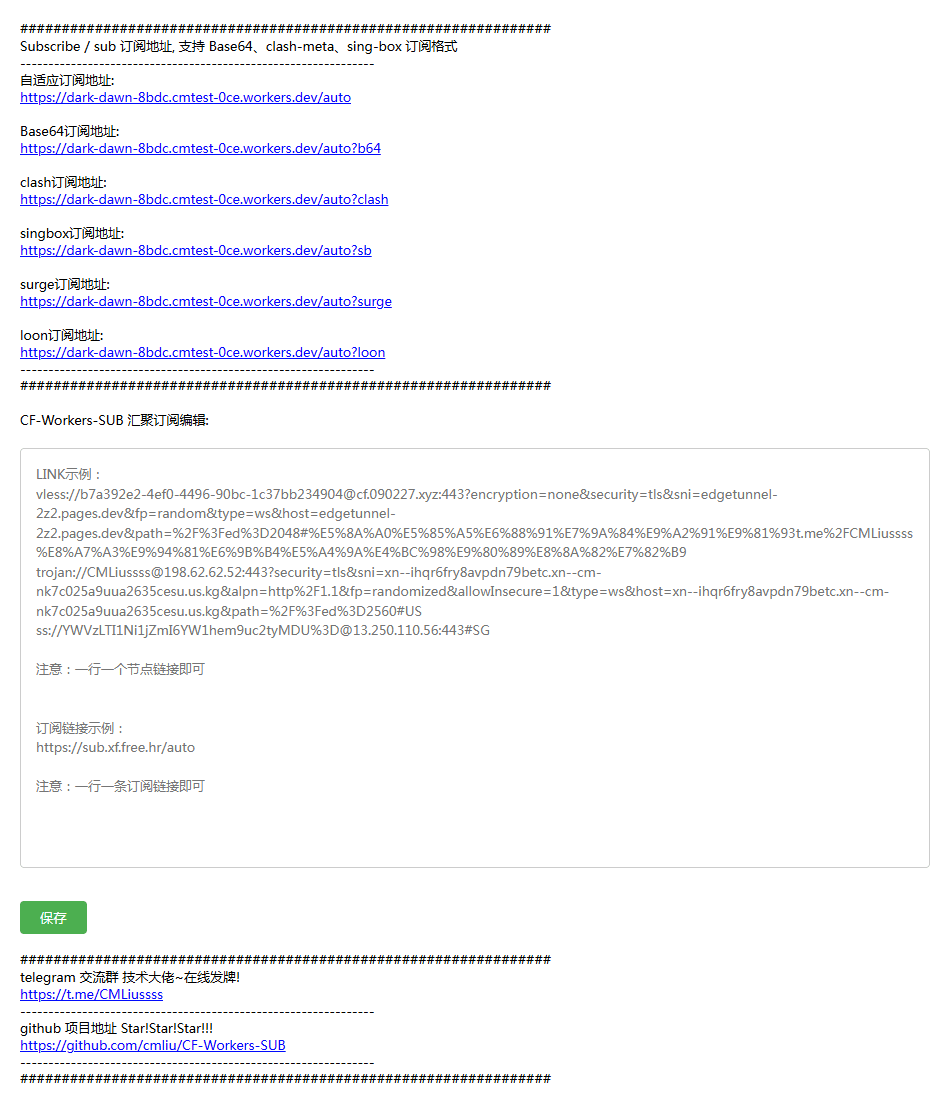
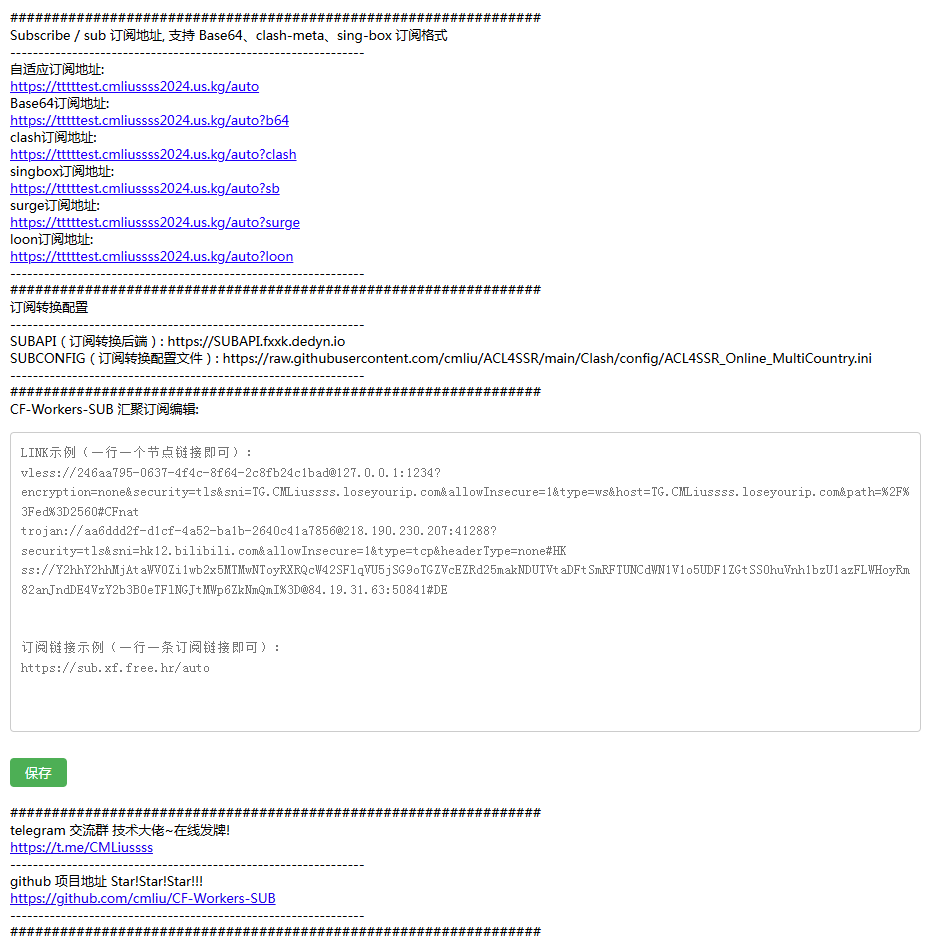
优化UI，展示更多信息

diff --git a/_worker.js b/_worker.js
@@ -17,8 +17,8 @@ https://raw.githubusercontent.com/mfuu/v2ray/master/v2ray
 `
 
 let urls = [];
-let subconverter = "SUBAPI.fxxk.dedyn.io"; //在线订阅转换后端，目前使用CM的订阅转换功能。支持自建psub 可自行搭建https://github.com/bulianglin/psub
-let subconfig = "https://raw.githubusercontent.com/cmliu/ACL4SSR/main/Clash/config/ACL4SSR_Online_MultiCountry.ini"; //订阅配置文件
+let subConverter = "SUBAPI.fxxk.dedyn.io"; //在线订阅转换后端，目前使用CM的订阅转换功能。支持自建psub 可自行搭建https://github.com/bulianglin/psub
+let subConfig = "https://raw.githubusercontent.com/cmliu/ACL4SSR/main/Clash/config/ACL4SSR_Online_MultiCountry.ini"; //订阅配置文件
 let subProtocol = 'https';
 
 export default {
@@ -31,14 +31,14 @@ export default {
 		BotToken = env.TGTOKEN || BotToken;
 		ChatID = env.TGID || ChatID; 
 		TG = env.TG || TG; 
-		subconverter = env.SUBAPI || subconverter;
-		if( subconverter.includes("http://") ){
-			subconverter = subconverter.split("//")[1];
+		subConverter = env.SUBAPI || subConverter;
+		if( subConverter.includes("http://") ){
+			subConverter = subConverter.split("//")[1];
 			subProtocol = 'http';
 		} else {
-			subconverter = subconverter.split("//")[1] || subconverter;
+			subConverter = subConverter.split("//")[1] || subConverter;
 		}
-		subconfig = env.SUBCONFIG || subconfig;
+		subConfig = env.SUBCONFIG || subConfig;
 		FileName = env.SUBNAME || FileName;
 
 		const currentDate = new Date();
@@ -104,7 +104,7 @@ export default {
 				订阅格式 = 'loon';
 			}
 
-			let subconverterUrl ;
+			let subConverterUrl ;
 			let 订阅转换URL = `${url.origin}/${await MD5MD5(fakeToken)}?token=${fakeToken}`;
 			//console.log(订阅转换URL);
 			let req_data = MainData;
@@ -170,21 +170,21 @@ export default {
 					}
 				});
 			} else if (订阅格式 == 'clash'){
-				subconverterUrl = `${subProtocol}://${subconverter}/sub?target=clash&url=${encodeURIComponent(订阅转换URL)}&insert=false&config=${encodeURIComponent(subconfig)}&emoji=true&list=false&tfo=false&scv=true&fdn=false&sort=false&new_name=true`;
+				subConverterUrl = `${subProtocol}://${subConverter}/sub?target=clash&url=${encodeURIComponent(订阅转换URL)}&insert=false&config=${encodeURIComponent(subConfig)}&emoji=true&list=false&tfo=false&scv=true&fdn=false&sort=false&new_name=true`;
 			} else if (订阅格式 == 'singbox'){
-				subconverterUrl = `${subProtocol}://${subconverter}/sub?target=singbox&url=${encodeURIComponent(订阅转换URL)}&insert=false&config=${encodeURIComponent(subconfig)}&emoji=true&list=false&tfo=false&scv=true&fdn=false&sort=false&new_name=true`;
+				subConverterUrl = `${subProtocol}://${subConverter}/sub?target=singbox&url=${encodeURIComponent(订阅转换URL)}&insert=false&config=${encodeURIComponent(subConfig)}&emoji=true&list=false&tfo=false&scv=true&fdn=false&sort=false&new_name=true`;
 			} else if (订阅格式 == 'surge'){
-				subconverterUrl = `${subProtocol}://${subconverter}/sub?target=surge&url=${encodeURIComponent(订阅转换URL)}&insert=false&config=${encodeURIComponent(subconfig)}&emoji=true&list=false&tfo=false&scv=true&fdn=false&sort=false&new_name=true`;
+				subConverterUrl = `${subProtocol}://${subConverter}/sub?target=surge&url=${encodeURIComponent(订阅转换URL)}&insert=false&config=${encodeURIComponent(subConfig)}&emoji=true&list=false&tfo=false&scv=true&fdn=false&sort=false&new_name=true`;
 			} else if (订阅格式 == 'quanx'){
-				subconverterUrl = `${subProtocol}://${subconverter}/sub?target=quanx&url=${encodeURIComponent(订阅转换URL)}&insert=false&config=${encodeURIComponent(subconfig)}&emoji=true&list=false&tfo=false&scv=true&fdn=false&sort=false&udp=true`;
+				subConverterUrl = `${subProtocol}://${subConverter}/sub?target=quanx&url=${encodeURIComponent(订阅转换URL)}&insert=false&config=${encodeURIComponent(subConfig)}&emoji=true&list=false&tfo=false&scv=true&fdn=false&sort=false&udp=true`;
 			} else if (订阅格式 == 'loon'){
-				subconverterUrl = `${subProtocol}://${subconverter}/sub?target=loon&url=${encodeURIComponent(订阅转换URL)}&insert=false&config=${encodeURIComponent(subconfig)}&emoji=true&list=false&tfo=false&scv=true&fdn=false&sort=false`;
+				subConverterUrl = `${subProtocol}://${subConverter}/sub?target=loon&url=${encodeURIComponent(订阅转换URL)}&insert=false&config=${encodeURIComponent(subConfig)}&emoji=true&list=false&tfo=false&scv=true&fdn=false&sort=false`;
 			}
 			//console.log(订阅转换URL);
 			try {
-				const subconverterResponse = await fetch(subconverterUrl);
+				const subConverterResponse = await fetch(subConverterUrl);
 				
-				if (!subconverterResponse.ok) {
+				if (!subConverterResponse.ok) {
 					return new Response(base64Data ,{
 						headers: { 
 							"content-type": "text/plain; charset=utf-8",
@@ -192,11 +192,11 @@ export default {
 							"Subscription-Userinfo": `upload=${UD}; download=${UD}; total=${total}; expire=${expire}`,
 						}
 					});
-					//throw new Error(`Error fetching subconverterUrl: ${subconverterResponse.status} ${subconverterResponse.statusText}`);
+					//throw new Error(`Error fetching subConverterUrl: ${subConverterResponse.status} ${subConverterResponse.statusText}`);
 				}
-				let subconverterContent = await subconverterResponse.text();
-				if (订阅格式 == 'clash') subconverterContent =await clashFix(subconverterContent);
-				return new Response(subconverterContent, {
+				let subConverterContent = await subConverterResponse.text();
+				if (订阅格式 == 'clash') subConverterContent =await clashFix(subConverterContent);
+				return new Response(subConverterContent, {
 					headers: { 
 						"Content-Disposition": `attachment; filename*=utf-8''${encodeURIComponent(FileName)}; filename=${FileName}`,
 						"content-type": "text/plain; charset=utf-8",
@@ -580,29 +580,29 @@ async function KV(request, env, txt = 'ADD.txt') {
 					---------------------------------------------------------------<br>
 					自适应订阅地址:<br>
 					<a href="javascript:void(0)" onclick="copyToClipboard('https://${url.hostname}/${mytoken}')" style="color:blue;text-decoration:underline;cursor:pointer;">https://${url.hostname}/${mytoken}</a><br>
-					<br>
 					Base64订阅地址:<br>
 					<a href="javascript:void(0)" onclick="copyToClipboard('https://${url.hostname}/${mytoken}?b64')" style="color:blue;text-decoration:underline;cursor:pointer;">https://${url.hostname}/${mytoken}?b64</a><br>
-					<br>
 					clash订阅地址:<br>
 					<a href="javascript:void(0)" onclick="copyToClipboard('https://${url.hostname}/${mytoken}?clash')" style="color:blue;text-decoration:underline;cursor:pointer;">https://${url.hostname}/${mytoken}?clash</a><br>
-					<br>
 					singbox订阅地址:<br>
 					<a href="javascript:void(0)" onclick="copyToClipboard('https://${url.hostname}/${mytoken}?sb')" style="color:blue;text-decoration:underline;cursor:pointer;">https://${url.hostname}/${mytoken}?sb</a><br>
-					<br>
 					surge订阅地址:<br>
 					<a href="javascript:void(0)" onclick="copyToClipboard('https://${url.hostname}/${mytoken}?surge')" style="color:blue;text-decoration:underline;cursor:pointer;">https://${url.hostname}/${mytoken}?surge</a><br>
-					<br>
 					loon订阅地址:<br>
 					<a href="javascript:void(0)" onclick="copyToClipboard('https://${url.hostname}/${mytoken}?loon')" style="color:blue;text-decoration:underline;cursor:pointer;">https://${url.hostname}/${mytoken}?loon</a><br>
 					---------------------------------------------------------------<br>
 					################################################################<br>
-					<br>
+					订阅转换配置<br>
+					---------------------------------------------------------------<br>
+					SUBAPI（订阅转换后端）: ${subProtocol}://${subConverter}<br>
+					SUBCONFIG（订阅转换配置文件）: ${subConfig}<br>
+					---------------------------------------------------------------<br>
+					################################################################<br>
 					${FileName} 汇聚订阅编辑: 
 					<div class="editor-container">
 						${hasKV ? `
 						<textarea class="editor" 
[2 lines of base64/hex data omitted]
 							id="content">${content}</textarea>
 						<div class="save-container">
 							<button class="save-btn" onclick="saveContent(this)">保存</button>
